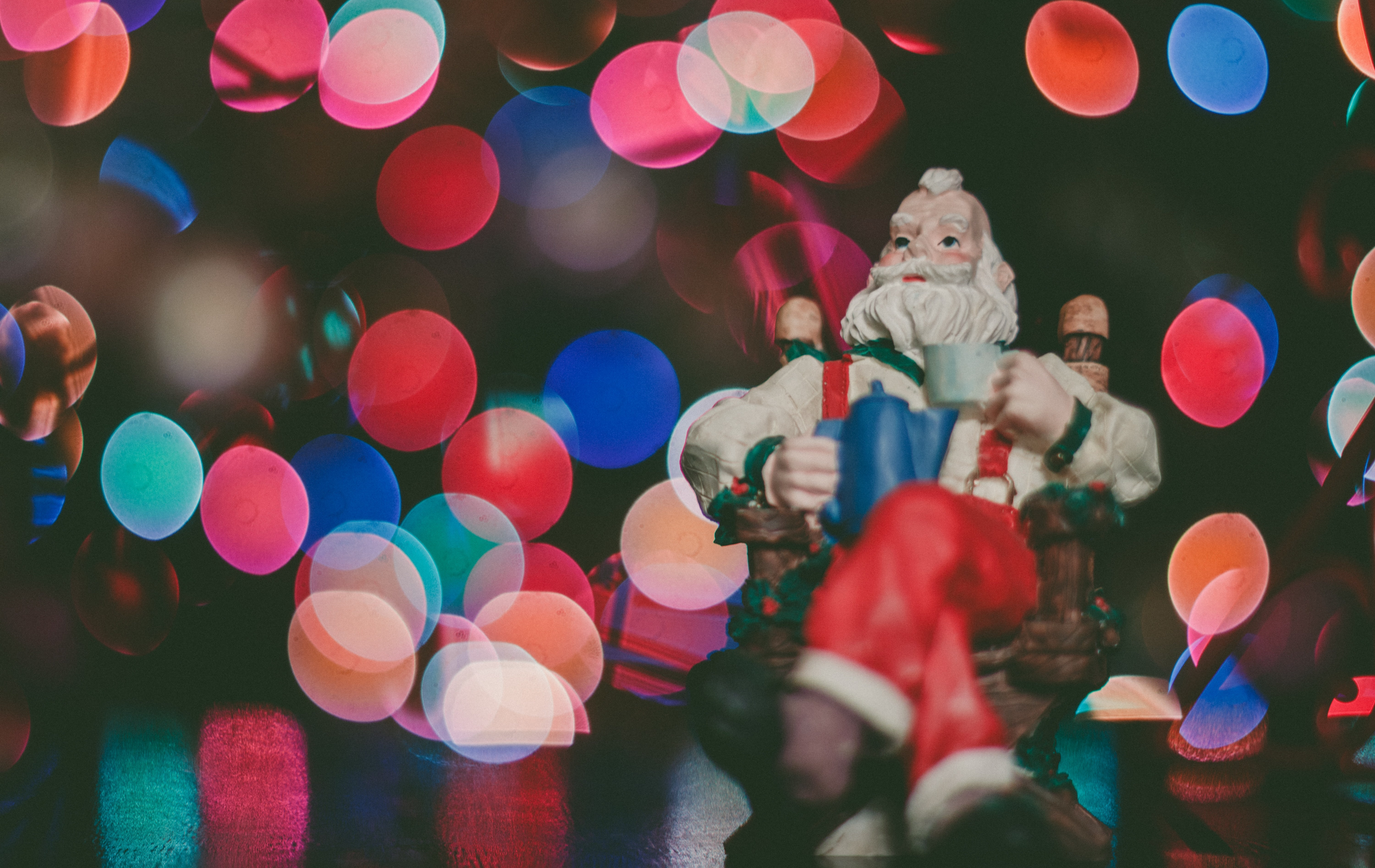
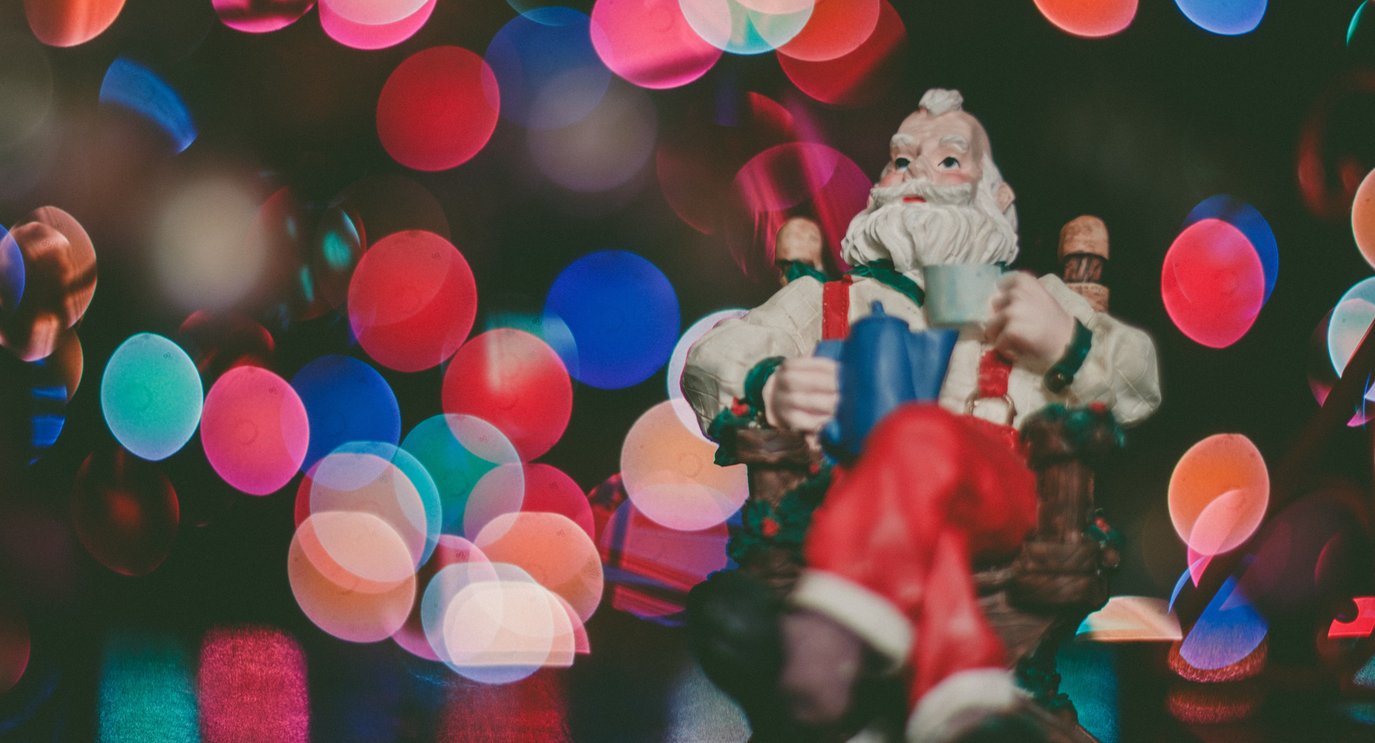
Updated text and some images + added maps

diff --git a/index.html b/index.html
@@ -21,9 +21,11 @@
             <a href="#desc" class="button alt scrolly big">C'est quoi?</a>
           </li>
           <li>
-            <a href="#santa" class="button alt scrolly big">Peres Noel</a>
+            <a href="#santa" class="button alt scrolly big">Pierre Feu</a>
           </li>
-          <li><a href="#renes" class="button alt scrolly big">10 Renes</a></li>
+          <li>
+            <a href="#renes" class="button alt scrolly big">Tour de la Forêt</a>
+          </li>
           <li><a href="#faq" class="button alt scrolly big">FAQ</a></li>
         </ul>
       </div>
@@ -32,19 +34,43 @@
     <!-- Desc -->
     <article id="desc" class="post style1">
       <div class="image">
-        <img src="images/pic14.jpg" alt="" data-position="50% center" />
+        <img src="images/rock.jpg" alt="" data-position="50% center" />
       </div>
       <div class="content">
         <div class="inner">
           <header>
-            <h2><a href="generic.html">Chasse aux Cailloux? Kesako?</a></h2>
+            <h2>
+              <a target="_blank" href="ChasseCailloux.pdf"
+                >Chasse aux Cailloux? Kesako?</a
+              >
+            </h2>
           </header>
+          <p>
+            Une petite initiative pour faire sourire pendant ce mois de décembre
+            et de quoi occuper petits et grands le temps d'une balade en
+            extérieur.
+            <br />
+            Le principe est simple, nous avons caché 18 cailloux peints sur le
+            chemin,
+            <a href="#santa" class="scrolly">8 Pères Noël</a> sur le chemin de
+            Pierre Feu et <a href="#renes" class="scrolly">10 rênes</a> sur le
+            tour de la forêt, Essayer de tous les trouver pendant votre sortie
+            (attention, ne les ramassez pas, vous pouvez simplement les compter
+            ou les prendre en photo).
+          </p>
+          <ul class="actions">
+            <li>
+              <a href="ChasseCailloux.pdf" target="_blank" class="button"
+                >Le flyer</a
+              >
+            </li>
+          </ul>
         </div>
         <div class="postnav">
           <a href="#" class="prev disabled"
             ><span class="icon fa-chevron-up"></span
           ></a>
-          <a href="#two" class="scrolly next"
+          <a href="#santa" class="scrolly next"
             ><span class="icon fa-chevron-down"></span
           ></a>
         </div>
@@ -54,31 +80,36 @@
     <!-- Pierre Feu -->
     <article id="santa" class="post invert style2 alt">
       <div class="image">
-        <img src="images/pic12.jpg" alt="" data-position="85% center" />
+        <img src="images/pic14.jpg" alt="" data-position="50% center" />
       </div>
       <div class="content">
         <div class="inner">
           <header>
-            <h2><a href="generic.html">Donec ex risus mollis</a></h2>
-            <p class="info">3 days ago by <a href="#">Jane Doe</a></p>
+            <h2>
+              <a href="images/pierreFeu.png" target="_blank"
+                >Les 8 Pères Noël de Pierre Feu</a
+              >
+            </h2>
           </header>
           <p>
-            Nullam posuere erat vel placerat rutrum. Praesent ac consectetur
-            dui, et congue quam. Donec aliquam lacinia condimentum. Integer
-            porta massa sapien, commodo sodales diam suscipit vitae. Aliquam
-            quis felis sed urna semper semper. Phasellus eu scelerisque mi.
-            Vivamus aliquam nisl libero, sit amet scelerisque ligula laoreet
-            vel.
+            8 cailloux deguisés en pères Noël sont cachés sur le chemin de
+            Pierre Feu. Cliquez ci-dessous pour voir la carte si vous ne les
+            trouvez pas tous!
           </p>
+          <img src="images/pierreFeu.png" alt="" data-position="50% center" />
           <ul class="actions">
-            <li><a href="generic.html" class="button alt">Read More</a></li>
+            <li>
+              <a href="images/pierreFeu.png" target="_blank" class="button alt"
+                >La carte</a
+              >
+            </li>
           </ul>
         </div>
         <div class="postnav">
-          <a href="#one" class="scrolly prev"
+          <a href="#desc" class="scrolly prev"
             ><span class="icon fa-chevron-up"></span
           ></a>
-          <a href="#three" class="scrolly next"
+          <a href="#renes" class="scrolly next"
             ><span class="icon fa-chevron-down"></span
           ></a>
         </div>
@@ -88,31 +119,36 @@
     <!-- Tour de la foret -->
     <article id="renes" class="post style2">
       <div class="image">
-        <img src="images/pic13.jpg" alt="" data-position="80% center" />
+        <img src="images/rene.jpg" alt="" data-position="40% center" />
       </div>
       <div class="content">
         <div class="inner">
           <header>
-            <h2><a href="generic.html">Sed tempus interdum</a></h2>
-            <p class="info">3 days ago by <a href="#">Jane Doe</a></p>
+            <h2>
+              <a href="images/tourForet.png" target="_blank"
+                >Les 10 rênes du tour de la forêt</a
+              >
+            </h2>
           </header>
           <p>
-            Nullam posuere erat vel placerat rutrum. Praesent ac consectetur
-            dui, et congue quam. Donec aliquam lacinia condimentum. Integer
-            porta massa sapien, commodo sodales diam suscipit vitae. Aliquam
-            quis felis sed urna semper semper. Phasellus eu scelerisque mi.
-            Vivamus aliquam nisl libero, sit amet scelerisque ligula laoreet
-            vel.
+            10 cailloux deguisés en rênes de Noël sont cachés sur le tour de la
+            forêt. Cliquez ci-dessous pour voir la carte si vous ne les trouvez
+            pas tous!
           </p>
+          <img src="images/tourForet.png" alt="" data-position="50% center" />
           <ul class="actions">
-            <li><a href="generic.html" class="button alt">Read More</a></li>
+            <li>
+              <a href="images/tourForet.png" target="_blank" class="button alt"
+                >La carte</a
+              >
+            </li>
           </ul>
         </div>
         <div class="postnav">
-          <a href="#two" class="scrolly prev"
+          <a href="#santa" class="scrolly prev"
             ><span class="icon fa-chevron-up"></span
           ></a>
-          <a href="#four" class="scrolly next"
+          <a href="#faq" class="scrolly next"
             ><span class="icon fa-chevron-down"></span
           ></a>
         </div>
@@ -122,7 +158,7 @@
     <!-- FAQ -->
     <article id="faq" class="post invert style3 alt">
       <div class="image">
-        <img src="images/pic15.jpg" alt="" data-position="75% center" />
+        <img src="images/pereNoel.jpg" alt="" data-position="90% center" />
       </div>
       <div class="content">
         <div class="inner">
@@ -130,19 +166,50 @@
             <h2><a href="generic.html">Foire aux questions</a></h2>
           </header>
           <p>
-            Nullam posuere erat vel placerat rutrum. Praesent ac consectetur
-            dui, et congue quam. Donec aliquam lacinia condimentum. Integer
-            porta massa sapien, commodo sodales diam suscipit vitae. Aliquam
-            quis felis sed urna semper semper. Phasellus eu scelerisque mi.
-            Vivamus aliquam nisl libero, sit amet scelerisque ligula laoreet
-            vel.
+            <strong>Je ne trouve pas les cailloux, il y a une carte?</strong
+            ><br />
+            Oui, regarde un peu plus haut
+            <a href="#santa" class="scrolly">ici</a> et
+            <a href="#renes" class="scrolly">là</a>
           </p>
-          <ul class="actions">
-            <li><a href="generic.html" class="button alt">Read More</a></li>
-          </ul>
+          <p>
+            <strong>Et quand il neige?</strong><br />
+            Certains cailloux, cachés en hauteur, sont peut-être encore
+            visibles, pour les autres, si vous savez où ils se trouvent
+            n’hésitez pas à les libérer pour les prochains qui passent!
+          </p>
+          <p>
+            <strong
+              >Des cailloux peints dans la nature? Est-ce vraiment
+              responsable?</strong
+            ><br />
+            Les cailloux ont été ramassés chez nous et on viendra les récupérer
+            après le nouvel an!
+          </p>
+          <p>
+            <strong>Est-ce que je peux ramasser les cailloux ? </strong><br />
+            Non, Idéalement les cailloux restent en place tout le mois de
+            décembre, mais passé le nouvel an pas de problème !
+          </p>
+          <p>
+            <strong>Il y a un caillou chez moi, ça me dérange !</strong><br />
+            Tout d'abord désolée ! Le but est de faire sourire, si un caillou
+            vous dérange vous pouvez le mettre plus loin, ou me contacter pour
+            que je le déplace.
+          </p>
+          <p>
+            <strong>Je peux participer ?</strong><br />
+            Bien sûr! Vous pouvez peindre un caillou et l'ajouter aux parcours,
+            ou créez votre propre boucle. Envoyer-moi une photo si vous voulez
+            l'ajouter au site!<br />
+            <i
+              >Petit conseil : Utilisez des peintures non toxiques ou vernissez
+              vos cailloux pour que la peinture ne coule pas!</i
+            >
+          </p>
         </div>
         <div class="postnav">
-          <a href="#three" class="scrolly prev"
+          <a href="#renes" class="scrolly prev"
             ><span class="icon fa-chevron-up"></span
           ></a>
           <a href="#five" class="scrolly next"
@@ -155,18 +222,29 @@
     <!-- Five -->
     <article id="five" class="post style3">
       <div class="image">
-        <img src="images/pic11.jpg" alt="" data-position="50% center" />
+        <img src="images/pic11.jpg" alt="" data-position="70% center" />
       </div>
       <div class="content">
         <div class="inner">
           <header>
-            <h2><a href="generic.html">Joyeuse Chasse et Joyeux Noël!!!</a></h2>
+            <h2>
+              <a href="ChasseCailloux.pdf" target="_blank"
+                >Bonne Chasse aux Cailloux <br />et Joyeux Noël!!!</a
+              >
+            </h2>
           </header>
-          <p>Yaëlle et sa famille</p>
+          <p>
+            Pour me contacter: <br />
+            <b>WhatsApp:</b> 07 49 21 47 21 <br />
+            <b>Email: </b>yaelle.chaudy@gmail.com
+          </p>
         </div>
         <div class="postnav">
           <a href="#faq" class="scrolly prev"
             ><span class="icon fa-chevron-up"></span
+          ></a>
+          <a href="#" class="scrolly disabled"
+            ><span class="icon fa-chevron-down"></span
           ></a>
         </div>
       </div>

diff --git a/assets/css/main.css b/assets/css/main.css
@@ -3494,7 +3494,7 @@ body {
   color: rgba(255, 255, 255, 0.75);
   text-align: center;
   cursor: default;
-  padding: 10em 4em 9em 4em;
+  padding: 6em 4em 6em 4em;
 }
 
 #banner input,
@@ -3886,6 +3886,10 @@ body.is-ie .post {
 
 .post .content .postnav .prev {
   border-bottom: none;
+}
+
+.post .content .inner img {
+	width: 100%;
 }
 
 .post .image {
